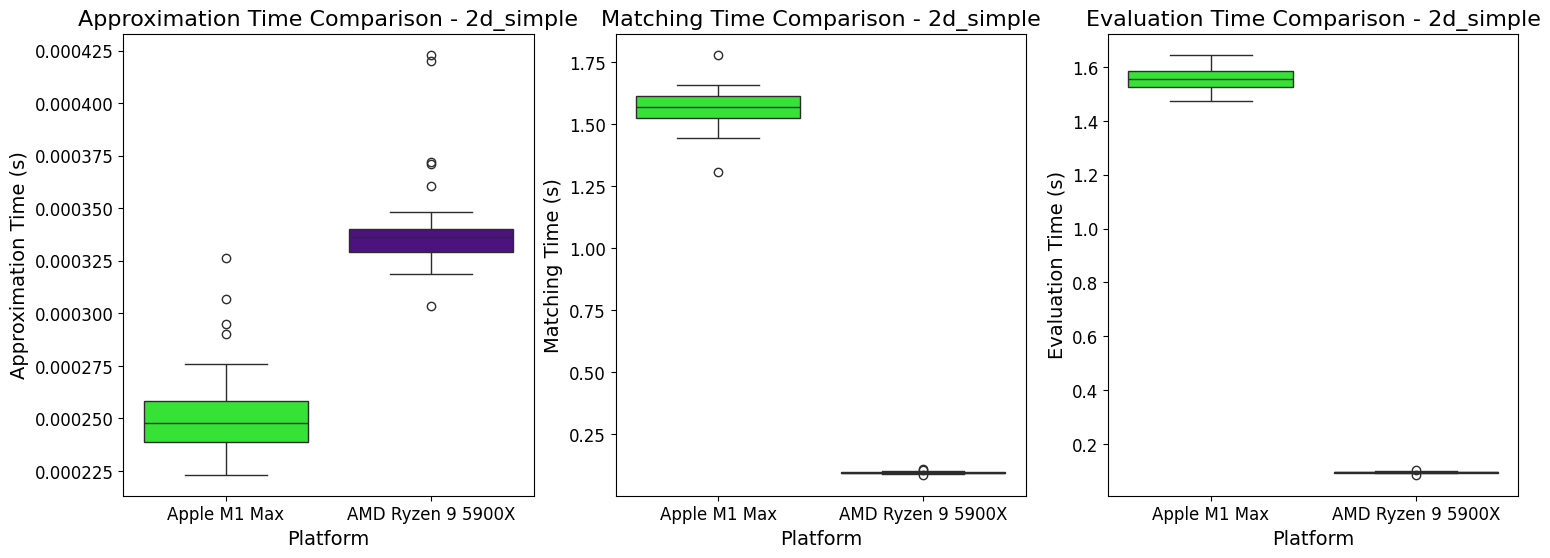
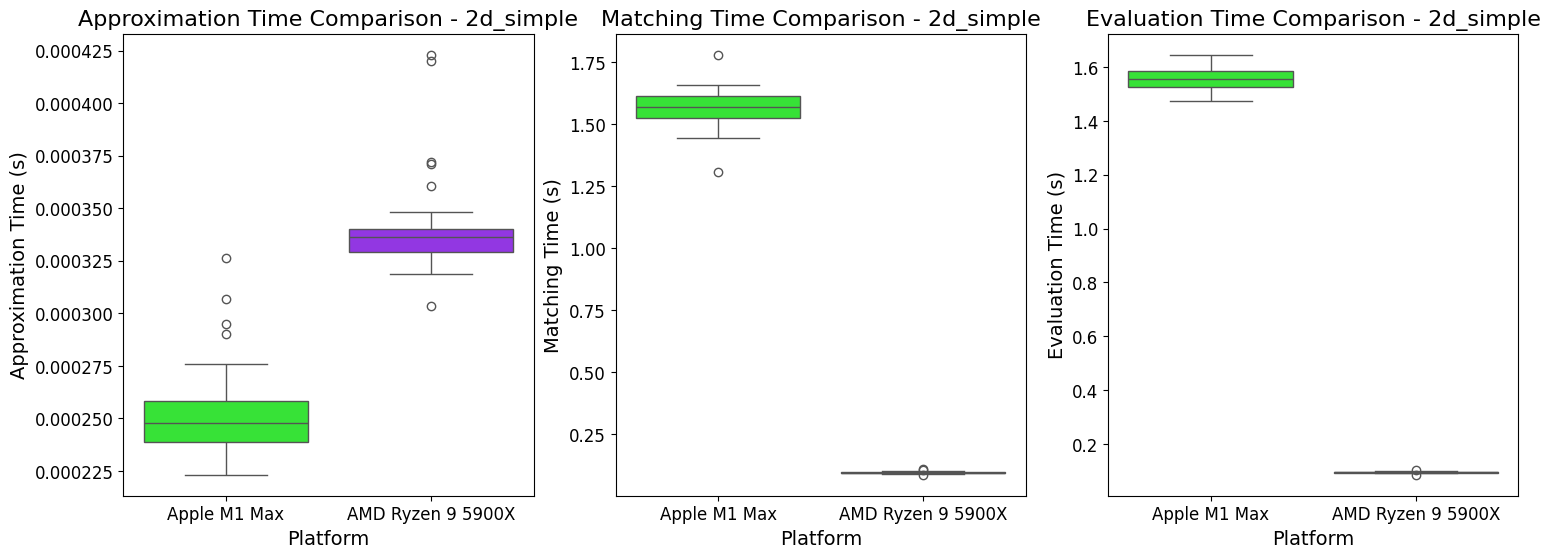
plots

diff --git a/benchmark/analysis/all_subplots..py b/benchmark/analysis/all_subplots..py
@@ -13,7 +13,7 @@ csv_list = [
 concatenated_df = pd.concat([pd.read_csv(csv) for csv in csv_list], ignore_index=True)
 
 # Set custom colors
-colors = ["#1AFF1A", "#4B0092"]
+colors = ["#1AFF1A", "#941AFF"]
 
 title_font_size = 16
 label_font_size = 14

diff --git a/benchmark/analysis/individual_plots.py b/benchmark/analysis/individual_plots.py
@@ -13,7 +13,7 @@ csv_list = [
 concatenated_df = pd.concat([pd.read_csv(csv) for csv in csv_list], ignore_index=True)
 
 # Set custom colors
-colors = ["#1AFF1A", "#4B0092"]
+colors = ["#1AFF1A", "#941AFF"]
 
 title_font_size = 16
 label_font_size = 14
